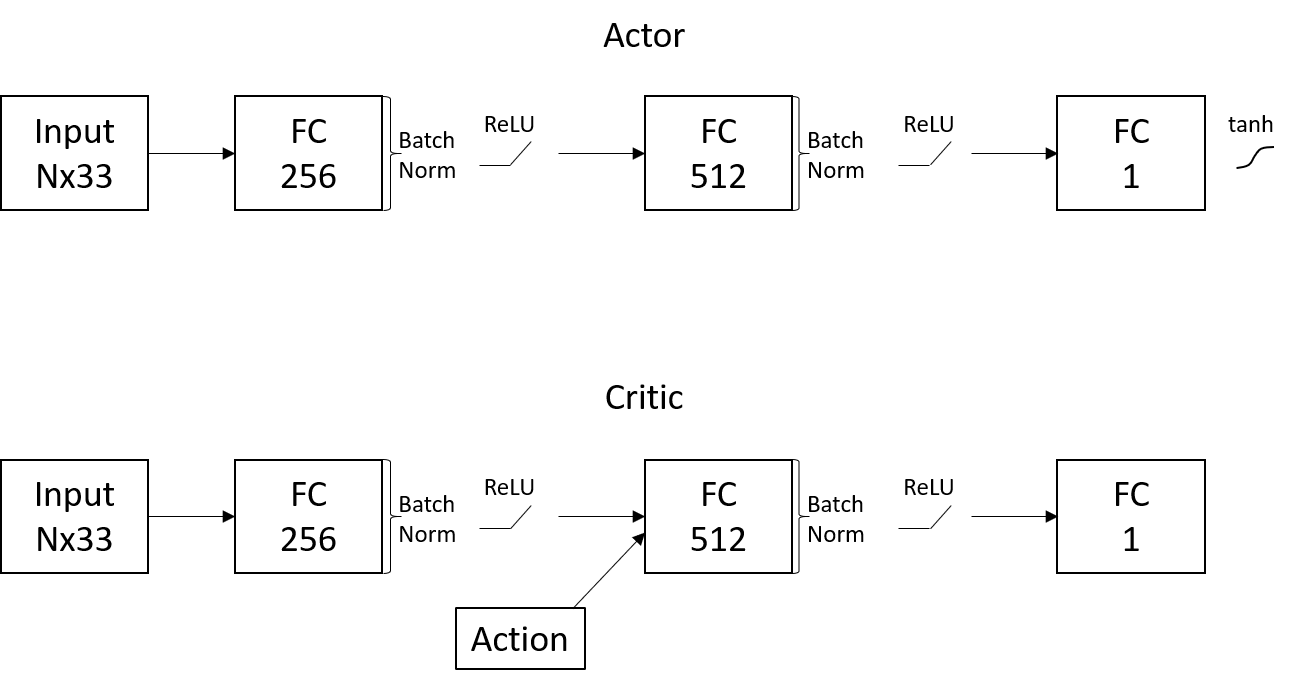
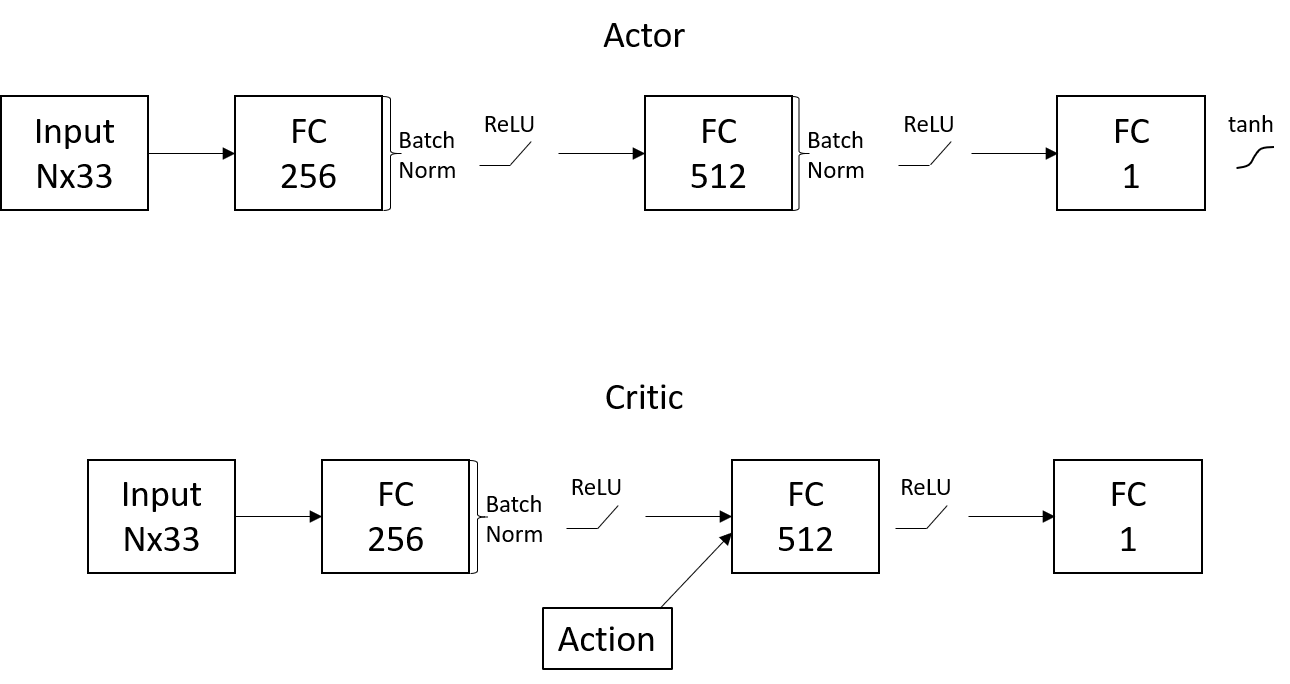
removed BN from fc2 in critic

diff --git a/model.py b/model.py
@@ -73,7 +73,6 @@ class Critic(nn.Module):
         
         # Batch Normalization layers
         self.bn1 = nn.BatchNorm1d(fc1_units)
-        self.bn2 = nn.BatchNorm1d(fc2_units)
         
         self.reset_parameters()
 
@@ -88,5 +87,5 @@ class Critic(nn.Module):
             state = torch.unsqueeze(state,0)
         x = F.relu(self.bn1(self.fc1(state)))
         x = torch.cat((x, action), dim=1)
-        x = F.relu(self.bn2(self.fc2(x)))
+        x = F.relu(self.fc2(x))
         return self.fc3(x)
